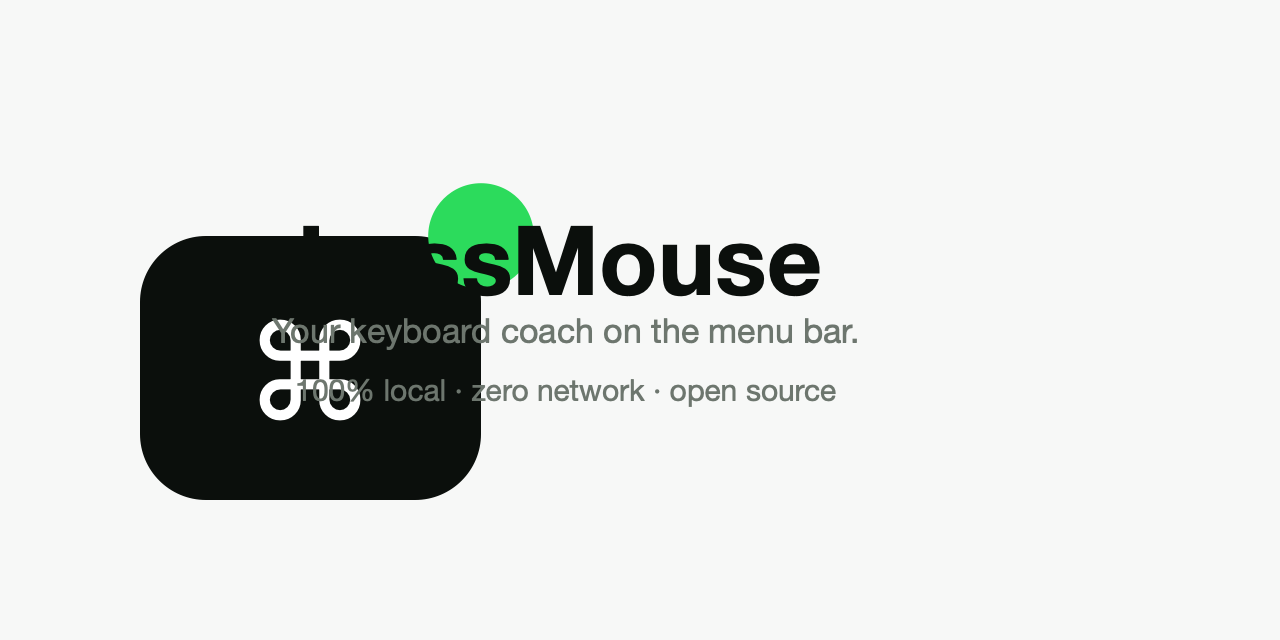
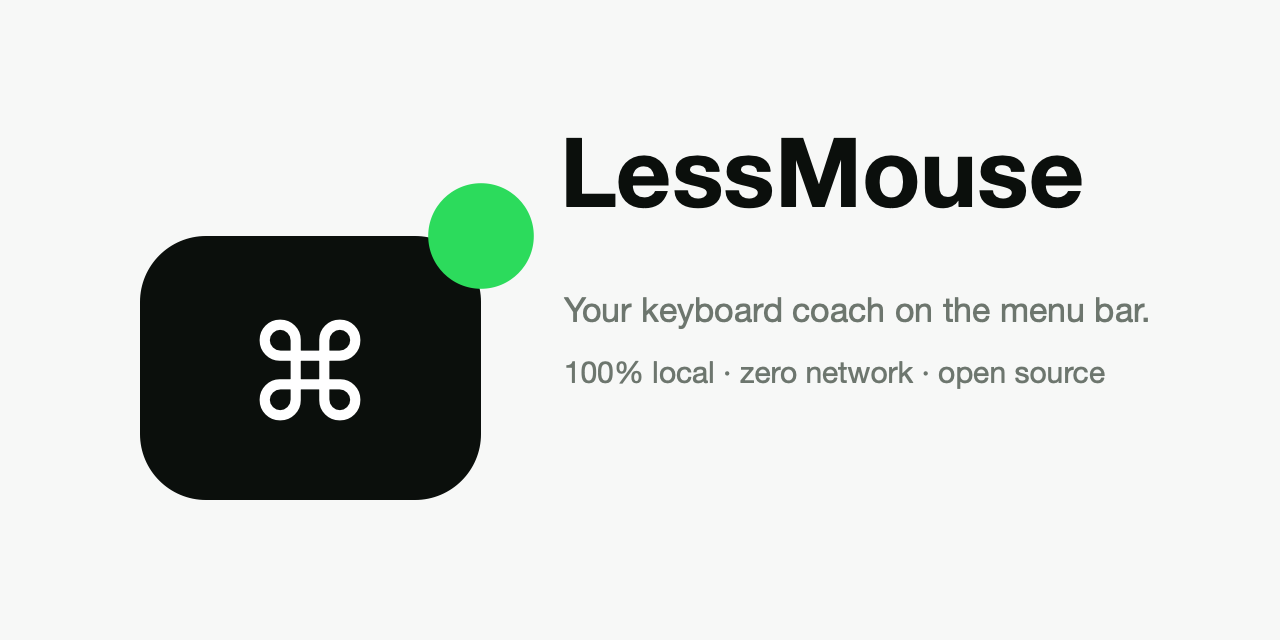
Social preview: split glyph/text anchors so the wordmark clears the cap
The optical-centering fix silently changed drawGlyph's contract from
top-left to center for every caller; the wordmark kept its old
coordinates and landed on the keycap. drawGlyphCentered (⌘ in the cap)
and drawText (hand-laid blocks, top-left anchored) now state their
anchors. Pixel check: cap right edge x=480, text ink starts x=567.

Changed region(s): [[0.2188, 0.2188, 0.9062, 0.625], [0.2188, 0.3438, 0.25, 0.375]]

diff --git a/scripts/make-social-preview.swift b/scripts/make-social-preview.swift
@@ -18,24 +18,41 @@ func color(_ hex: UInt32, _ alpha: CGFloat = 1) -> CGColor {
             blue: CGFloat(hex & 0xFF) / 255, alpha: alpha)
 }
 
-/// `at` is the desired CENTER of the glyph's optical bounds — the only
-/// centering that actually centers (minX/minY are nonzero for most glyphs,
-/// so placing the cursor at "center minus hand-fudged offsets" lands visibly
-/// off, which is exactly the bug this replaced).
-func drawGlyph(_ string: String, font: String, size: CGFloat,
-               at position: CGPoint, color: CGColor) {
+/// Draws `string` with its optical bounds CENTERED on `center` — for
+/// single glyphs placed inside a shape (the ⌘ in the keycap).
+func drawGlyphCentered(_ string: String, font: String, size: CGFloat,
+                       at center: CGPoint, color: CGColor) {
+    let line = makeLine(string, font: font, size: size, color: color)
+    let bounds = CTLineGetBoundsWithOptions(line, .useOpticalBounds)
+    context.textPosition = CGPoint(
+        x: center.x - bounds.width / 2 - bounds.minX,
+        y: center.y - bounds.height / 2 - bounds.minY)
+    CTLineDraw(line, context)
+}
+
+/// Draws `string` with its optical TOP-LEFT at `topLeft` — for text blocks
+/// laid out by hand. (One draw function used to do both jobs and its
+/// semantics flip mid-flight is exactly how the wordmark ended up on top
+/// of the keycap.)
+func drawText(_ string: String, font: String, size: CGFloat,
+              at topLeft: CGPoint, color: CGColor) {
+    let line = makeLine(string, font: font, size: size, color: color)
+    let bounds = CTLineGetBoundsWithOptions(line, .useOpticalBounds)
+    context.textPosition = CGPoint(
+        x: topLeft.x - bounds.minX,
+        y: topLeft.y - bounds.minY)
+    CTLineDraw(line, context)
+}
+
+private func makeLine(_ string: String, font: String, size: CGFloat,
+                      color: CGColor) -> CTLine {
     let attributed = CFAttributedStringCreateMutable(nil, 0)!
     CFAttributedStringReplaceString(attributed, CFRange(location: 0, length: 0), string as CFString)
     let range = CFRange(location: 0, length: CFAttributedStringGetLength(attributed))
     CFAttributedStringSetAttribute(attributed, range, kCTFontAttributeName,
                                     CTFontCreateWithName(font as CFString, size, nil))
     CFAttributedStringSetAttribute(attributed, range, kCTForegroundColorAttributeName, color)
-    let line = CTLineCreateWithAttributedString(attributed)
-    let bounds = CTLineGetBoundsWithOptions(line, .useOpticalBounds)
-    context.textPosition = CGPoint(
-        x: position.x - bounds.width / 2 - bounds.minX,
-        y: position.y - bounds.height / 2 - bounds.minY)
-    CTLineDraw(line, context)
+    return CTLineCreateWithAttributedString(attributed)
 }
 
 let context = CGContext(data: nil, width: width, height: height,
@@ -55,22 +72,24 @@ context.setFillColor(color(0x0B0F0C))
 context.fillPath()
 
 // ⌘ truly centered in the cap, white.
-drawGlyph("\u{2318}", font: "HelveticaNeue", size: 240 * unit,
-          at: CGPoint(x: cap.midX, y: cap.midY),
-          color: color(0xFFFFFF))
+drawGlyphCentered("\u{2318}", font: "HelveticaNeue", size: 240 * unit,
+                  at: CGPoint(x: cap.midX, y: cap.midY),
+                  color: color(0xFFFFFF))
 
 // The green: exactly one dot, top-right of the cap.
 context.setFillColor(color(0x2CDB5C))
 context.fillEllipse(in: CGRect(x: cap.maxX - 96 * unit, y: cap.maxY - 96 * unit,
                                width: 192 * unit, height: 192 * unit))
 
-// Wordmark and tagline, ink and secondary.
-drawGlyph("LessMouse", font: "HelveticaNeue-Bold", size: 96,
-          at: CGPoint(x: 560, y: 380), color: color(0x0B0F0C))
-drawGlyph("Your keyboard coach on the menu bar.", font: "HelveticaNeue", size: 34,
-          at: CGPoint(x: 566, y: 310), color: color(0x6D766E))
-drawGlyph("100% local · zero network · open source", font: "HelveticaNeue", size: 30,
-          at: CGPoint(x: 566, y: 250), color: color(0x6D766E))
+// Wordmark and tagline, top-left anchored, clear of the cap (right edge at
+// x=481): everything starts at x=560, and the block is vertically centered
+// on the canvas.
+drawText("LessMouse", font: "HelveticaNeue-Bold", size: 96,
+         at: CGPoint(x: 560, y: 410), color: color(0x0B0F0C))
+drawText("Your keyboard coach on the menu bar.", font: "HelveticaNeue", size: 34,
+         at: CGPoint(x: 564, y: 310), color: color(0x6D766E))
+drawText("100% local · zero network · open source", font: "HelveticaNeue", size: 30,
+         at: CGPoint(x: 564, y: 250), color: color(0x6D766E))
 
 let image = context.makeImage()!
 let url = URL(fileURLWithPath: #filePath).deletingLastPathComponent().deletingLastPathComponent()
